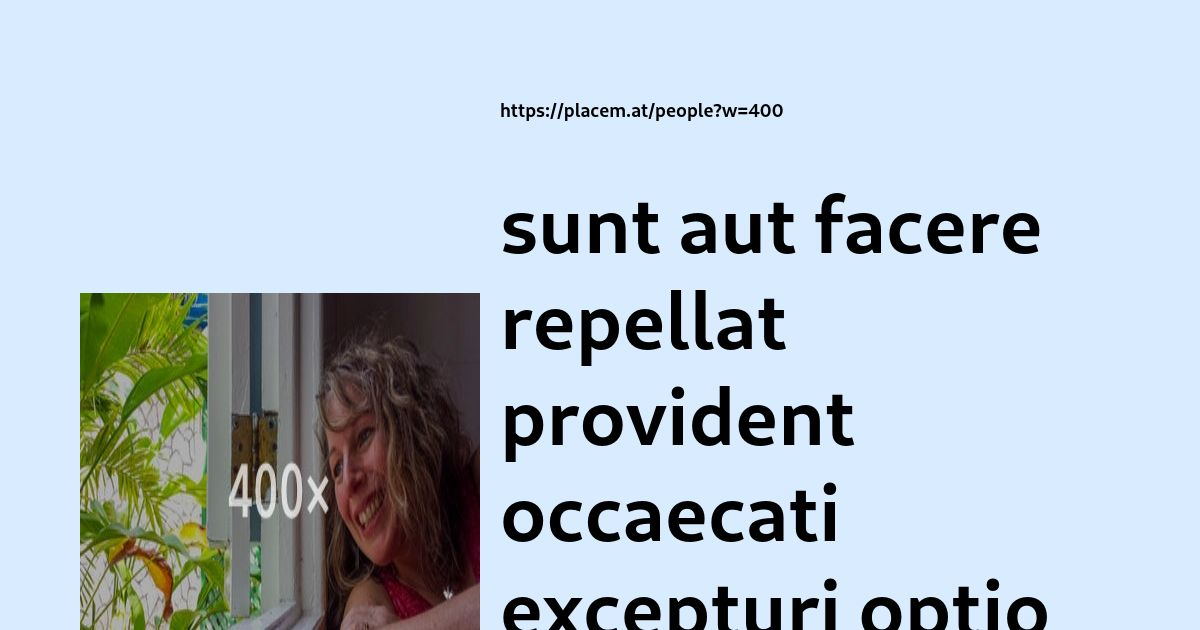
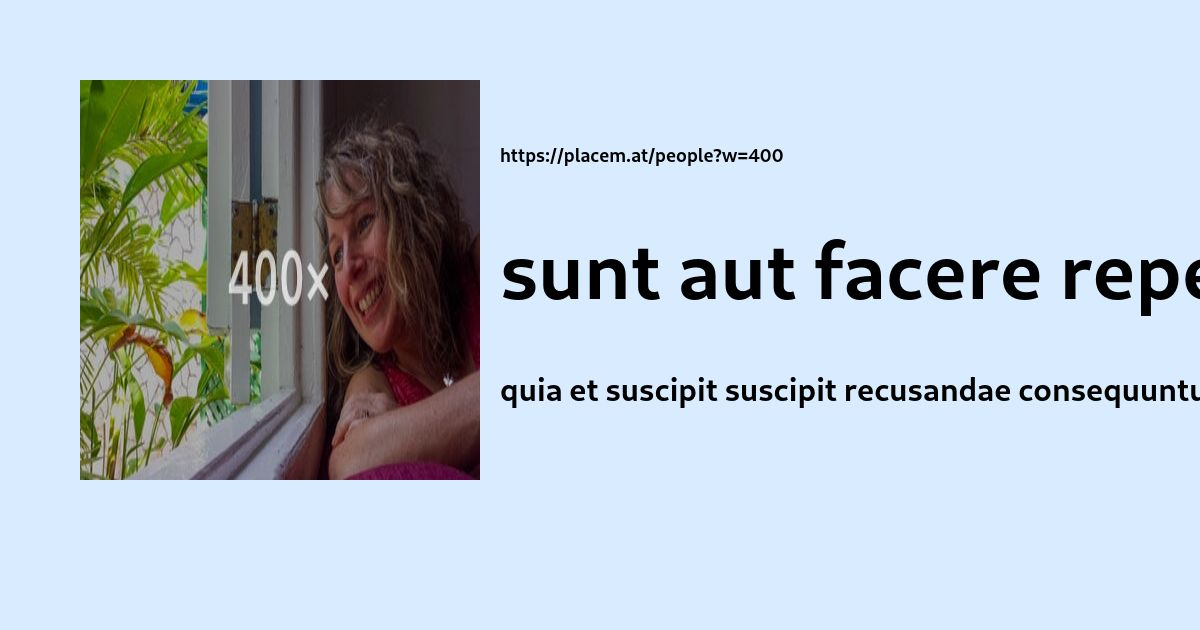
Working state!

diff --git a/next-banner/src/client/withBannerOptions.ts b/next-banner/src/client/withBannerOptions.ts
@@ -2,85 +2,27 @@ import { NextConfig } from "next";
 import { BannerConfig } from "../types";
 
 import fs from "node:fs";
-
-// import WebpackShellPlugin from "webpack-shell-plugin-next";
-
-// // const fs = require("fs");
-
-// import fs from "fs";
-// // const fs = require("fs");
-
-// class HelloWorldPlugin {
-//   apply(compiler) {
-//     // compiler.hooks.additionalPass.tap("Hello World Plugin", (stats) => {
-//     //   // console.log("Hello World! 1");
-//     //   // console.log("Hello World! 2");
-//     //   isThere();
-//     // });
-
-//     // compiler.hooks.infrastructureLog.tap("Hello World Plugin", (stats) => {
-//     //   // console.log("Hello there", stats);
-//     //   isThere();
-//     // });
-
-//     compiler.hooks.thisCompilation.tap("Hello World Plugin", (compilation) => {
-//       // Tapping to the assets processing pipeline on a specific stage.
-//       compilation.hooks.processAssets.tap(
-//         {
-//           name: "Hello World Plugin",
-
-//           // Using one of the later asset processing stages to ensure
-//           // that all assets were already added to the compilation by other plugins.
-//           stage: 5000,
-//         },
-//         (assets) => {
-//           // console.log(assets);
-//           for (const asset in assets) {
-//             // if (asset == "../pages/index.js") {
-//             //   console.log(assets[asset]);
-//             // }
-//             //console.log("-----");
-//             //console.log(asset);
-//             //console.log(assets[asset]?._source?._children);
-//           }
-//           // console.log(assets._source._children);
-//         }
-//       );
-//     });
-//   }
-// }
-
-// function isThere() {
-//   if (fs.existsSync("./.next/server/pages/index.html")) {
-//     console.log("exitsts");
-//   } else {
-//     console.log("no exist soory");
-//   }
-// }
+import getConfig from "../cli/config";
 
 export default function withBannerOptions(options: Partial<BannerConfig> = {}) {
-  // console.log("I am here");
+  let bannerConfig: BannerConfig;
 
   try {
     fs.writeFileSync(
       "./.next/next-banner.json",
       JSON.stringify(options, null, 2)
     );
+
+    bannerConfig = getConfig();
   } catch (err) {
     console.error(err);
   }
 
   return (nextConfig: NextConfig) => ({
     ...nextConfig,
-
-    webpack: (config, { buildId, dev, isServer, defaultLoaders, webpack }) => {
-      // Important: return the modified config
-      //config.plugins.push(new HelloWorldPlugin());
-      return config;
-    },
     publicRuntimeConfig: {
       ...nextConfig.publicRuntimeConfig,
-      nextBannerOptions: options,
+      nextBannerOptions: bannerConfig,
     },
   });
 }

diff --git a/next-banner/src/client/Provider.tsx b/next-banner/src/client/Provider.tsx
@@ -3,20 +3,22 @@ import Head from "next/head";
 import { useRouter } from "next/router";
 
 import { OUTPUT_DIR } from "../constants";
+// import { BannerConfig } from "../types";
+import getConfig from "next/config";
 
 interface ProviderProps {
-  baseUrl: string;
+  // domain: string;
   children: React.ReactNode;
-  width?: number;
-  height?: number;
+  // width?: number;
+  // height?: number;
 }
 
 export default function Provider({
-  baseUrl,
+  // domain,
   children,
-  width = 1200,
-  height = 630,
-}: ProviderProps): JSX.Element {
+}: // width = 1200,
+// height = 630,
+ProviderProps): JSX.Element {
   const { asPath } = useRouter();
 
   const getUrl = (baseUrl: string, path: string) => {
@@ -25,32 +27,34 @@ export default function Provider({
     }.png`;
   };
 
-  if (typeof window !== "undefined") {
-    window.NextBannerConfig = {
-      width,
-      height,
-    };
-  }
+  // if (typeof window !== "undefined") {
+  //   window.NextBannerConfig = {
+  //     domain,
+  //     width,
+  //     height,
+  //   };
+  // }
+
+  const { publicRuntimeConfig } = getConfig();
+  const domain = publicRuntimeConfig.nextBannerOptions.domain;
 
   return (
     <>
       <Head>
-        <meta property="og:image" content={getUrl(baseUrl, asPath)} />
+        <meta property="og:image" content={getUrl(domain, asPath)} />
       </Head>
 
-      <ProviderContext.Provider value={{ width, height }}>
-        {children}
-      </ProviderContext.Provider>
+      {/* <ProviderContext.Provider value={{ domain, width, height }}>
+
+      </ProviderContext.Provider> */}
+
+      {children}
     </>
   );
 }
 
-interface Size {
-  width: number;
-  height: number;
-}
-
-export const ProviderContext = React.createContext<Size>({
-  width: 1200,
-  height: 630,
-});
+// export const ProviderContext = React.createContext<BannerConfig>({
+//   domain: "example.com",
+//   width: 1200,
+//   height: 630,
+// });

diff --git a/next-banner/src/cli/operation/captureScreenshot.ts b/next-banner/src/cli/operation/captureScreenshot.ts
@@ -3,11 +3,9 @@ import fs from "fs";
 
 import { NextServer, Logs } from "../types";
 import { getPath } from "../file";
-import getConfig from "../config";
 import { Payload } from "../../types";
 import { LAYOUT_DIR, OUTPUT_DIR } from "../../constants";
-
-// const config = getConfig();
+import getConfig from "../config";
 
 function getOutput(route: string) {
   const outputFolder = `public/${OUTPUT_DIR}`;
@@ -62,20 +60,14 @@ async function captureScreenshot(
     window.NextBannerPayload = payload;
   }, payload);
 
-  const layoutUrl = `http://localhost:${server.port}/${LAYOUT_DIR}/${payload.layout}`;
+  await page.goto(
+    `http://localhost:${server.port}/${LAYOUT_DIR}/${payload.layout}`,
+    {
+      waitUntil: "networkidle0",
+    }
+  );
 
-  await page.goto(layoutUrl, {
-    waitUntil: "networkidle0",
-  });
-
-  const { width, height } = await page.evaluate(async () => {
-    await new Promise((r) => setTimeout(r, 20000));
-
-    return {
-      width: window.NextBannerConfig.width,
-      height: window.NextBannerConfig.height,
-    };
-  });
+  const { width, height } = getConfig();
 
   await page.setViewport({
     width,

diff --git a/next-banner/src/client/ScreenshotCanvas.tsx b/next-banner/src/client/ScreenshotCanvas.tsx
@@ -1,5 +1,5 @@
-import React, { useContext } from "react";
-import { ProviderContext } from "./Provider";
+import getConfig from "next/config";
+import React from "react";
 
 interface ScreenshotCanvasProps {
   style?: React.CSSProperties;
@@ -12,29 +12,24 @@ export default function ScreenshotCanvas({
   className,
   children,
 }: ScreenshotCanvasProps): JSX.Element {
-  const { width, height } = useContext(ProviderContext);
+  const { publicRuntimeConfig } = getConfig();
+  const width = publicRuntimeConfig.nextBannerOptions.width;
+  const height = publicRuntimeConfig.nextBannerOptions.height;
 
   return (
     <div
+      className={className}
       style={{
-        width: "100%",
-        height: "100%",
+        width,
+        height,
         position: "fixed",
         background: "white",
         top: "0",
         left: "0",
+        ...style,
       }}
     >
-      <div
-        className={className}
-        style={{
-          width,
-          height,
-          ...style,
-        }}
-      >
-        {children}
-      </div>
+      {children}
     </div>
   );
 }

diff --git a/next-banner/src/cli/config.ts b/next-banner/src/cli/config.ts
@@ -6,18 +6,15 @@ import { getPath } from "./file";
 import { CONFIG_FILE } from "../constants";
 
 const defaultConfig: Partial<BannerConfig> = {
+  domain: "example.com",
   excludePages: [],
   width: 1200,
   height: 630,
 };
 
 function getConfig(): BannerConfig {
-  return loadConfig(getPath(`./${CONFIG_FILE}`));
-}
-
-function loadConfig(path: string): BannerConfig {
-  const baseConfig = loadFile<Partial<BannerConfig>>(path);
-  return mergeWithDefault(defaultConfig, baseConfig);
+  const config = loadFile<Partial<BannerConfig>>(getPath(`./${CONFIG_FILE}`));
+  return mergeWithDefault(defaultConfig, config);
 }
 
 function mergeWithDefault(

diff --git a/next-banner/src/types.ts b/next-banner/src/types.ts
@@ -1,13 +1,8 @@
 declare global {
   interface Window {
     NextBannerPayload: Payload;
-    NextBannerConfig: NextBannerConfig;
+    NextBannerConfig: BannerConfig;
   }
-}
-
-interface NextBannerConfig {
-  width: number;
-  height: number;
 }
 
 export interface Meta {
@@ -31,7 +26,8 @@ export interface Payload {
 }
 
 export interface BannerConfig {
-  excludePages: string[];
+  domain: string;
+  excludePages: [];
   width: number;
   height: number;
 }

diff --git a/example/pages/_app.tsx b/example/pages/_app.tsx
@@ -4,7 +4,8 @@ import { Provider } from "next-banner";
 
 function MyApp({ Component, pageProps }: AppProps) {
   return (
-    <Provider baseUrl="example.com" width={1200} height={630}>
+    // <Provider domain="example.com" width={1200} height={630}>
+    <Provider>
       <Component {...pageProps} />
     </Provider>
   );

diff --git a/example/next.config.js b/example/next.config.js
@@ -3,7 +3,7 @@
 const { withBannerOptions } = require("next-banner");
 
 module.exports = withBannerOptions({
-  domain: "example.com",
+  domain: "alvar.dev",
   width: 1200,
   height: 630,
 });
